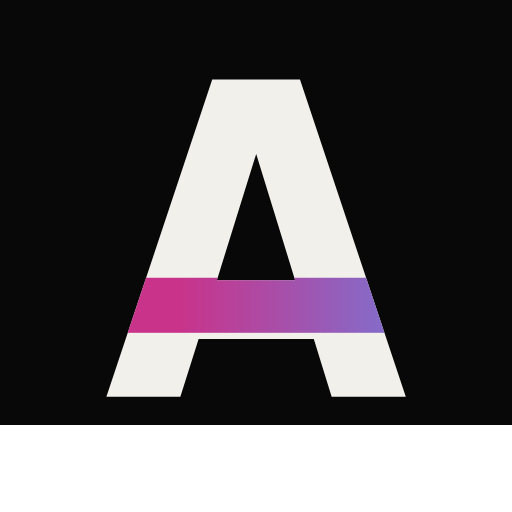
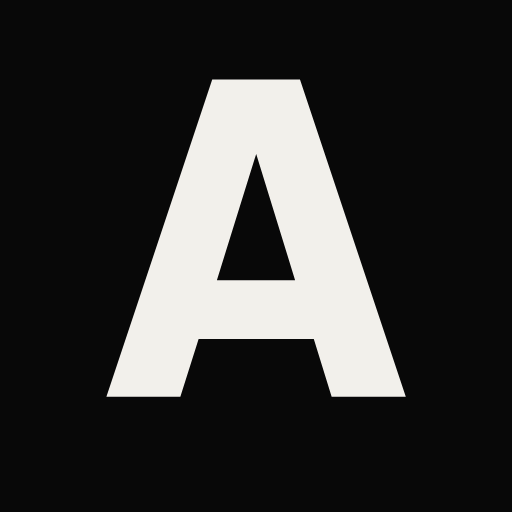
Add files via upload

Changed region(s): [[0.0, 0.8125, 1.0, 1.0], [0.25, 0.5312, 0.75, 0.6562]]

diff --git a/index.html b/index.html
@@ -404,7 +404,7 @@
       </defs>
       <text x="100" y="155" text-anchor="middle" font-family="'Barlow Condensed',sans-serif" font-weight="900" font-size="170" fill="#f2f0eb">A</text>
       <g clip-path="url(#a-clip-H)">
-        <rect x="0" y="108.5" width="200" height="21.5" fill="url(#a-grad-H)"/>
+        <rect x="0" y="115" width="200" height="18" fill="url(#a-grad-H)"/>
       </g>
       <line x1="0" y1="0" x2="14" y2="0" stroke="#333" stroke-width="1"/>
       <line x1="0" y1="0" x2="0" y2="14" stroke="#333" stroke-width="1"/>
